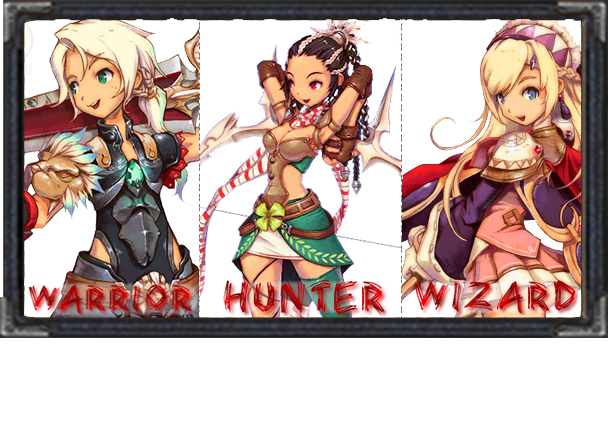
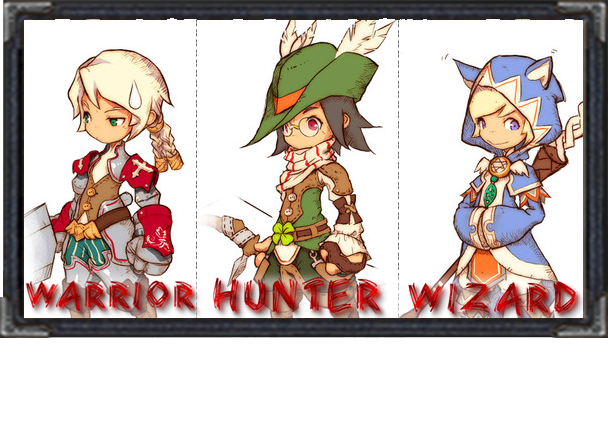
Changed back the classImages to the boring, non-sexy, non-hentai images.

diff --git a/src/Model/Skills/Wizard/SkillFirestorm.java b/src/Model/Skills/Wizard/SkillFirestorm.java
@@ -9,7 +9,7 @@ public class SkillFirestorm extends Skill{
 
 	public SkillFirestorm(){
 		//String name, int cd, int range, double speed, int aoe, int cost, int damage, StatusEffect SE
-		super("Firestorm", 9000, 350, 100, 8, 225, 15,"Firestorm:\nA dangerous explosion that \ndeals damage to an area for a limited \ntime." +
+		super("Firestorm", 9000, 350, 100, 8, 225, 15,"Firestorm:\nA dangerous explosion that \ndeals damage to an area for a \nlimited time." +
 				"\nLevel 1: 15 damage\n" +
 				"Level 2: 25 damage\n" +
 				"Level 3: 35 damage\n" +
